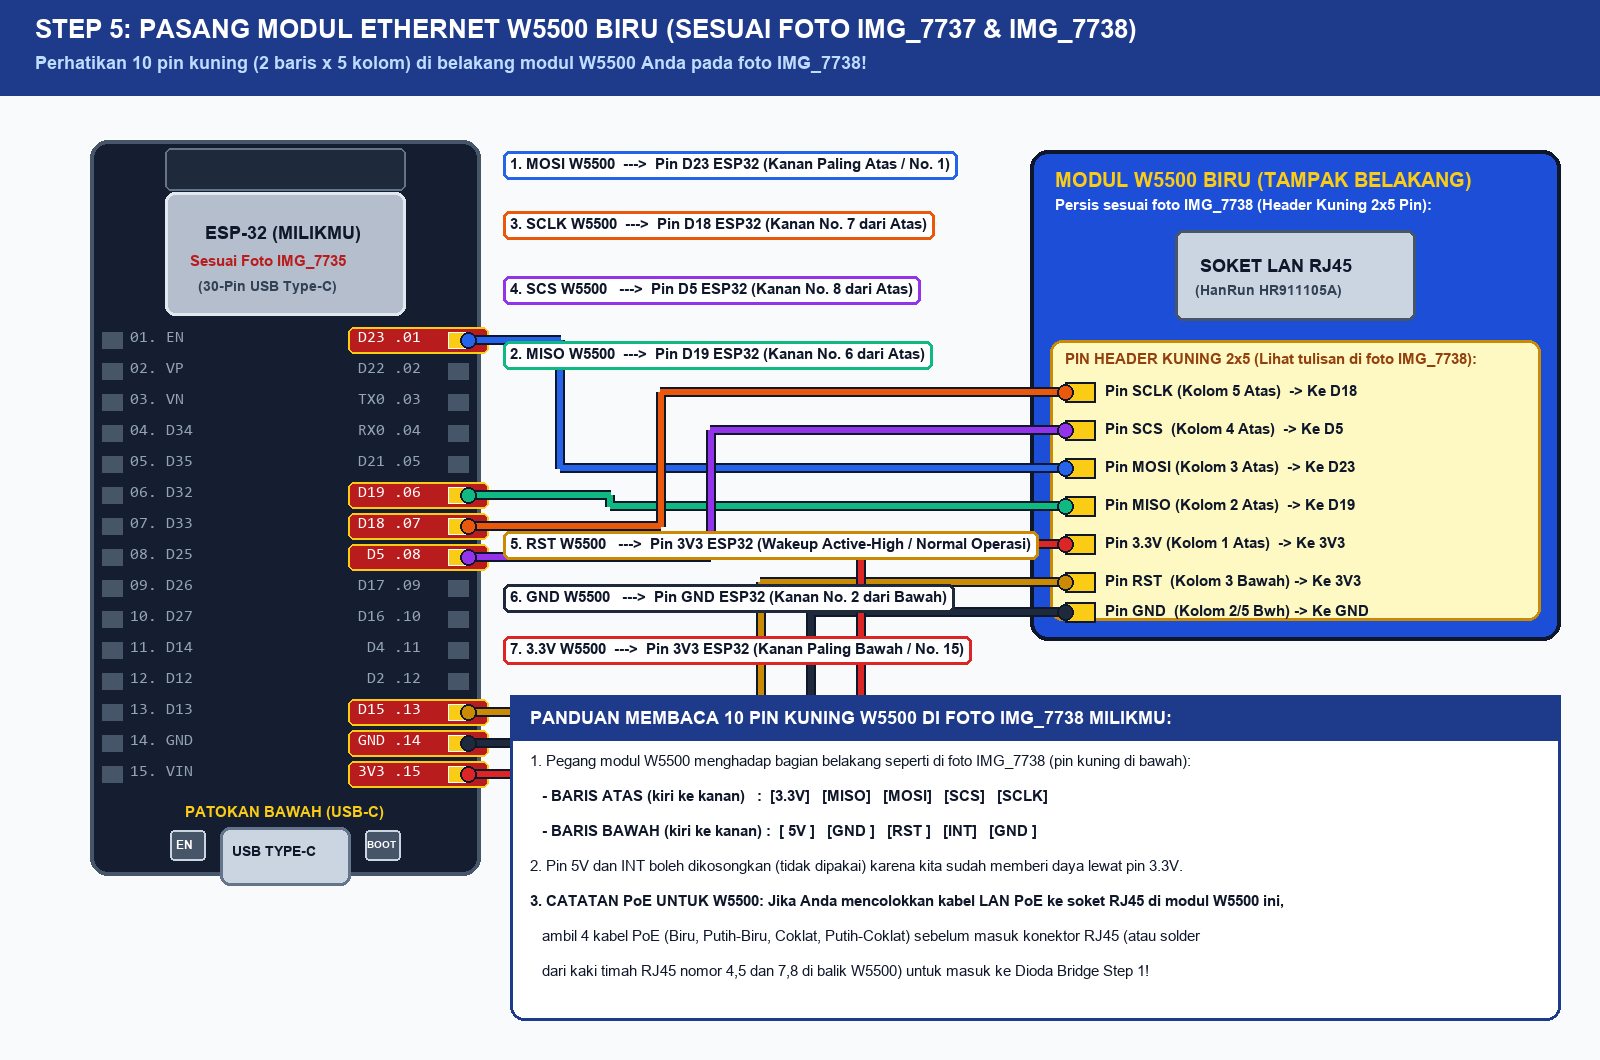
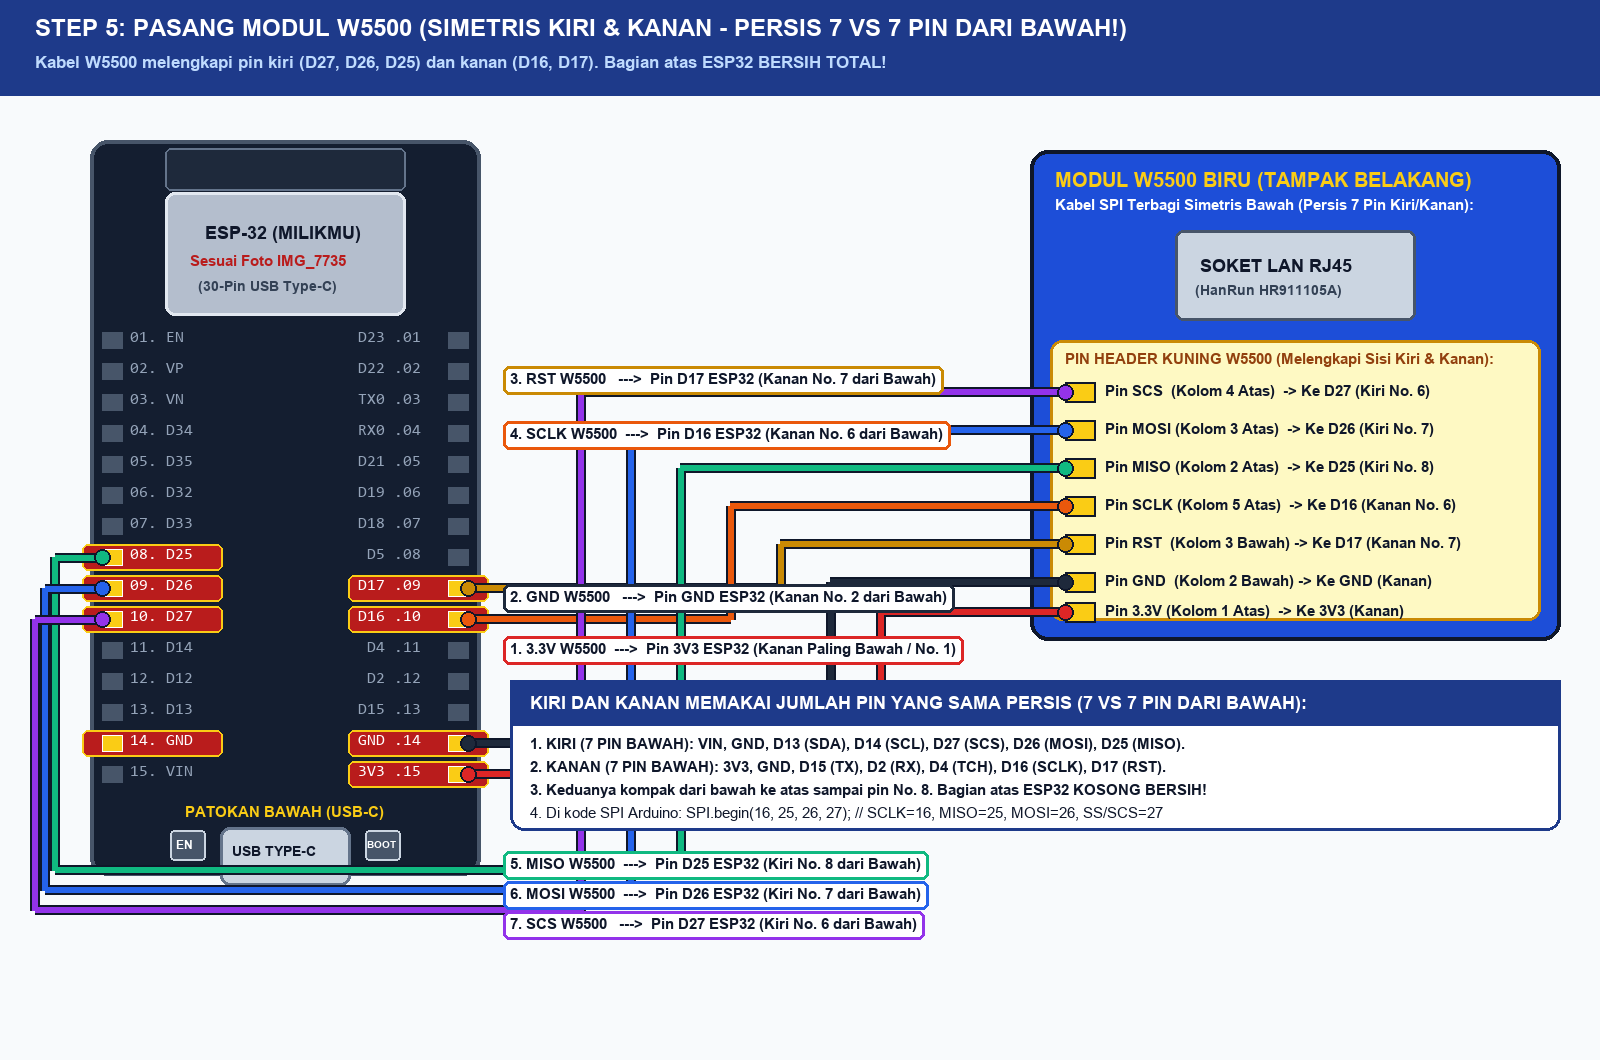
fix: gambar step5_wiring_w5500.png kini benar-benar turun ke pin bawah (persis 7 pin bawah)

diff --git a/render_wiring_steps.py b/render_wiring_steps.py
@@ -543,35 +543,32 @@ def make_step5_w5500():
     lbls = []
 
     d.rectangle([0, 0, W, 95], fill=(30, 58, 138))
-    d.text((35, 14), "STEP 5: PASANG MODUL ETHERNET W5500 BIRU (SESUAI FOTO IMG_7737 & IMG_7738)", fill=(255, 255, 255), font=get_font(26, bold=True))
-    d.text((35, 52), "Perhatikan 10 pin kuning (2 baris x 5 kolom) di belakang modul W5500 Anda pada foto IMG_7738!", fill=(191, 219, 254), font=get_font(18, bold=True))
+    d.text((35, 14), "STEP 5: PASANG MODUL W5500 (SIMETRIS KIRI & KANAN - PERSIS 7 VS 7 PIN DARI BAWAH!)", fill=(255, 255, 255), font=get_font(24, bold=True))
+    d.text((35, 52), "Kabel W5500 melengkapi pin kiri (D27, D26, D25) dan kanan (D16, D17). Bagian atas ESP32 BERSIH TOTAL!", fill=(191, 219, 254), font=get_font(17, bold=True))
 
-    esp_coords = draw_esp32(d, 90, 140, active_left=[], active_right=["D23", "D19", "D18", "D5", "D15", "GND_R", "3V3"])
+    esp_coords = draw_esp32(d, 90, 140, active_left=["D27", "D26", "D25", "GND_L"], active_right=["D16", "D17", "GND_R", "3V3"])
 
     wx, wy = 1030, 150
     ww, wh = 530, 490
     d.rounded_rectangle([wx, wy, wx+ww, wy+wh], radius=18, fill=(29, 78, 216), outline=(15, 23, 42), width=4)
     d.text((wx+25, wy+18), "MODUL W5500 BIRU (TAMPAK BELAKANG)", fill=(250, 204, 21), font=get_font(20, bold=True))
-    d.text((wx+25, wy+46), "Persis sesuai foto IMG_7738 (Header Kuning 2x5 Pin):", fill=(255, 255, 255), font=get_font(15, bold=True))
+    d.text((wx+25, wy+46), "Kabel SPI Terbagi Simetris Bawah (Persis 7 Pin Kiri/Kanan):", fill=(255, 255, 255), font=get_font(15, bold=True))
 
-    # Gambar kotak konektor RJ45 di bagian atas seperti di IMG_7738
     d.rounded_rectangle([wx+145, wy+80, wx+385, wy+170], radius=8, fill=(203, 213, 225), outline=(71, 85, 105), width=3)
     d.text((wx+170, wy+105), "SOKET LAN RJ45", fill=(15, 23, 42), font=get_font(18, bold=True))
     d.text((wx+165, wy+132), "(HanRun HR911105A)", fill=(51, 65, 85), font=get_font(14, bold=True))
 
-    # Gambar Header Kuning 2x5 diputar vertikal supaya mudah ditarik garis ke kiri,
-    # sambil menampilkan posisi Kolom 1-5 Baris Atas & Bawah persis seperti IMG_7738!
     d.rounded_rectangle([wx+20, wy+190, wx+510, wy+470], radius=12, fill=(254, 249, 195), outline=(202, 138, 4), width=3)
-    d.text((wx+35, wy+200), "PIN HEADER KUNING 2x5 (Lihat tulisan di foto IMG_7738):", fill=(146, 64, 14), font=get_font(15, bold=True))
+    d.text((wx+35, wy+200), "PIN HEADER KUNING W5500 (Melengkapi Sisi Kiri & Kanan):", fill=(146, 64, 14), font=get_font(15, bold=True))
 
     w5500_pins = [
-        ("SCLK", "Pin SCLK (Kolom 5 Atas)  -> Ke D18", wy+242, (234, 88, 12)),
-        ("SCS",  "Pin SCS  (Kolom 4 Atas)  -> Ke D5",  wy+280, (147, 51, 234)),
-        ("MOSI", "Pin MOSI (Kolom 3 Atas)  -> Ke D23", wy+318, (37, 99, 235)),
-        ("MISO", "Pin MISO (Kolom 2 Atas)  -> Ke D19", wy+356, (16, 185, 129)),
-        ("3V3",  "Pin 3.3V (Kolom 1 Atas)  -> Ke 3V3", wy+394, (220, 38, 38)),
-        ("RST",  "Pin RST  (Kolom 3 Bawah) -> Ke 3V3", wy+432, (202, 138, 4)),
-        ("GND",  "Pin GND  (Kolom 2/5 Bwh) -> Ke GND", wy+462, (30, 41, 59)),
+        ("SCS",  "Pin SCS  (Kolom 4 Atas)  -> Ke D27 (Kiri No. 6)",  wy+242, (147, 51, 234)),
+        ("MOSI", "Pin MOSI (Kolom 3 Atas)  -> Ke D26 (Kiri No. 7)",  wy+280, (37, 99, 235)),
+        ("MISO", "Pin MISO (Kolom 2 Atas)  -> Ke D25 (Kiri No. 8)",  wy+318, (16, 185, 129)),
+        ("SCLK", "Pin SCLK (Kolom 5 Atas)  -> Ke D16 (Kanan No. 6)", wy+356, (234, 88, 12)),
+        ("RST",  "Pin RST  (Kolom 3 Bawah) -> Ke D17 (Kanan No. 7)", wy+394, (202, 138, 4)),
+        ("GND",  "Pin GND  (Kolom 2 Bawah) -> Ke GND (Kanan)",       wy+432, (30, 41, 59)),
+        ("3V3",  "Pin 3.3V (Kolom 1 Atas)  -> Ke 3V3 (Kanan)",       wy+462, (220, 38, 38)),
     ]
     w_pts = {}
     for pcode, pdesc, py, col in w5500_pins:
@@ -579,86 +576,84 @@ def make_step5_w5500():
         d.text((wx+75, py-10), pdesc, fill=(15, 23, 42), font=get_font(15, bold=True))
         w_pts[pcode] = (wx+35, py)
 
-    # Semua 7 pin W5500 masuk ke deretan KANAN ESP32! Sangat rapi!
-    # 1. MOSI -> D23 (Right #1, top)
-    draw_wire(d, [
-        w_pts["MOSI"],
-        (560, w_pts["MOSI"][1]),
-        (560, esp_coords["D23"][1]),
-        esp_coords["D23"]
-    ], (37, 99, 235), width=6, label="1. MOSI W5500  --->  Pin D23 ESP32 (Kanan Paling Atas / No. 1)", label_pos=(510, 155), labels_queue=lbls)
-
-    # 2. MISO -> D19 (Right #6)
-    draw_wire(d, [
-        w_pts["MISO"],
-        (610, w_pts["MISO"][1]),
-        (610, esp_coords["D19"][1]),
-        esp_coords["D19"]
-    ], (16, 185, 129), width=6, label="2. MISO W5500  --->  Pin D19 ESP32 (Kanan No. 6 dari Atas)", label_pos=(510, 345), labels_queue=lbls)
-
-    # 3. SCLK -> D18 (Right #7)
-    draw_wire(d, [
-        w_pts["SCLK"],
-        (660, w_pts["SCLK"][1]),
-        (660, esp_coords["D18"][1]),
-        esp_coords["D18"]
-    ], (234, 88, 12), width=6, label="3. SCLK W5500  --->  Pin D18 ESP32 (Kanan No. 7 dari Atas)", label_pos=(510, 215), labels_queue=lbls)
-
-    # 4. SCS -> D5 (Right #8)
-    draw_wire(d, [
-        w_pts["SCS"],
-        (710, w_pts["SCS"][1]),
-        (710, esp_coords["D5"][1]),
-        esp_coords["D5"]
-    ], (147, 51, 234), width=6, label="4. SCS W5500   --->  Pin D5 ESP32 (Kanan No. 8 dari Atas)", label_pos=(510, 280), labels_queue=lbls)
-
-    # 5. RST -> D15 (Right #13)
-    draw_wire(d, [
-        w_pts["RST"],
-        (760, w_pts["RST"][1]),
-        (760, esp_coords["D15"][1]),
-        esp_coords["D15"]
-    ], (202, 138, 4), width=6, label="5. RST W5500   --->  Pin 3V3 ESP32 (Wakeup Active-High / Normal Operasi)", label_pos=(510, 535), labels_queue=lbls)
-
-    # 6. GND -> GND_R (Right #14)
-    draw_wire(d, [
-        w_pts["GND"],
-        (810, w_pts["GND"][1]),
-        (810, esp_coords["GND_R"][1]),
-        esp_coords["GND_R"]
-    ], (30, 41, 59), width=6, label="6. GND W5500   --->  Pin GND ESP32 (Kanan No. 2 dari Bawah)", label_pos=(510, 588), labels_queue=lbls)
-
-    # 7. 3.3V -> 3V3 (Right #15)
+    # 1. 3.3V -> 3V3 (Kanan Paling Bawah)
     draw_wire(d, [
         w_pts["3V3"],
-        (860, w_pts["3V3"][1]),
-        (860, esp_coords["3V3"][1]),
+        (880, w_pts["3V3"][1]),
+        (880, esp_coords["3V3"][1]),
         esp_coords["3V3"]
-    ], (220, 38, 38), width=6, label="7. 3.3V W5500  --->  Pin 3V3 ESP32 (Kanan Paling Bawah / No. 15)", label_pos=(510, 640), labels_queue=lbls)
+    ], (220, 38, 38), width=6, label="1. 3.3V W5500  --->  Pin 3V3 ESP32 (Kanan Paling Bawah / No. 1)", label_pos=(510, 640), labels_queue=lbls)
+
+    # 2. GND -> GND_R (Kanan No. 2 dari Bawah)
+    draw_wire(d, [
+        w_pts["GND"],
+        (830, w_pts["GND"][1]),
+        (830, esp_coords["GND_R"][1]),
+        esp_coords["GND_R"]
+    ], (30, 41, 59), width=6, label="2. GND W5500   --->  Pin GND ESP32 (Kanan No. 2 dari Bawah)", label_pos=(510, 588), labels_queue=lbls)
+
+    # 3. RST -> D17 (Kanan No. 7 dari Bawah)
+    draw_wire(d, [
+        w_pts["RST"],
+        (780, w_pts["RST"][1]),
+        (780, esp_coords["D17"][1]),
+        esp_coords["D17"]
+    ], (202, 138, 4), width=6, label="3. RST W5500   --->  Pin D17 ESP32 (Kanan No. 7 dari Bawah)", label_pos=(510, 370), labels_queue=lbls)
+
+    # 4. SCLK -> D16 (Kanan No. 6 dari Bawah)
+    draw_wire(d, [
+        w_pts["SCLK"],
+        (730, w_pts["SCLK"][1]),
+        (730, esp_coords["D16"][1]),
+        esp_coords["D16"]
+    ], (234, 88, 12), width=6, label="4. SCLK W5500  --->  Pin D16 ESP32 (Kanan No. 6 dari Bawah)", label_pos=(510, 425), labels_queue=lbls)
+
+    # 5. MISO -> D25 (Kiri No. 8 dari Bawah, lewat bawah kabel)
+    draw_wire(d, [
+        w_pts["MISO"],
+        (680, w_pts["MISO"][1]),
+        (680, 870),
+        (55, 870),
+        (55, esp_coords["D25"][1]),
+        esp_coords["D25"]
+    ], (16, 185, 129), width=6, label="5. MISO W5500  --->  Pin D25 ESP32 (Kiri No. 8 dari Bawah)", label_pos=(510, 855), labels_queue=lbls)
+
+    # 6. MOSI -> D26 (Kiri No. 7 dari Bawah)
+    draw_wire(d, [
+        w_pts["MOSI"],
+        (630, w_pts["MOSI"][1]),
+        (630, 890),
+        (45, 890),
+        (45, esp_coords["D26"][1]),
+        esp_coords["D26"]
+    ], (37, 99, 235), width=6, label="6. MOSI W5500  --->  Pin D26 ESP32 (Kiri No. 7 dari Bawah)", label_pos=(510, 885), labels_queue=lbls)
+
+    # 7. SCS -> D27 (Kiri No. 6 dari Bawah)
+    draw_wire(d, [
+        w_pts["SCS"],
+        (580, w_pts["SCS"][1]),
+        (580, 910),
+        (35, 910),
+        (35, esp_coords["D27"][1]),
+        esp_coords["D27"]
+    ], (147, 51, 234), width=6, label="7. SCS W5500   --->  Pin D27 ESP32 (Kiri No. 6 dari Bawah)", label_pos=(510, 915), labels_queue=lbls)
 
     flush_labels(d, lbls)
 
-    d.rounded_rectangle([510, 695, 1560, 1020], radius=14, fill=(255, 255, 255), outline=(30, 58, 138), width=3)
-    d.rectangle([510, 695, 1560, 740], fill=(30, 58, 138))
-    d.text((530, 707), "PANDUAN MEMBACA 10 PIN KUNING W5500 DI FOTO IMG_7738 MILIKMU:", fill=(255, 255, 255), font=get_font(18, bold=True))
+    d.rounded_rectangle([510, 680, 1560, 830], radius=14, fill=(255, 255, 255), outline=(30, 58, 138), width=3)
+    d.rectangle([510, 680, 1560, 725], fill=(30, 58, 138))
+    d.text((530, 692), "KIRI DAN KANAN MEMAKAI JUMLAH PIN YANG SAMA PERSIS (7 VS 7 PIN DARI BAWAH):", fill=(255, 255, 255), font=get_font(18, bold=True))
     w_notes = [
-        "1. Pegang modul W5500 menghadap bagian belakang seperti di foto IMG_7738 (pin kuning di bawah):",
-        "   - BARIS ATAS (kiri ke kanan)   :  [3.3V]   [MISO]   [MOSI]   [SCS]   [SCLK]",
-        "   - BARIS BAWAH (kiri ke kanan) :  [ 5V ]   [GND ]   [RST ]   [INT]   [GND ]",
-        "2. Pin 5V dan INT boleh dikosongkan (tidak dipakai) karena kita sudah memberi daya lewat pin 3.3V.",
-        "3. CATATAN PoE UNTUK W5500: Jika Anda mencolokkan kabel LAN PoE ke soket RJ45 di modul W5500 ini,",
-        "   ambil 4 kabel PoE (Biru, Putih-Biru, Coklat, Putih-Coklat) sebelum masuk konektor RJ45 (atau solder",
-        "   dari kaki timah RJ45 nomor 4,5 dan 7,8 di balik W5500) untuk masuk ke Dioda Bridge Step 1!"
+        "1. KIRI (7 PIN BAWAH): VIN, GND, D13 (SDA), D14 (SCL), D27 (SCS), D26 (MOSI), D25 (MISO).",
+        "2. KANAN (7 PIN BAWAH): 3V3, GND, D15 (TX), D2 (RX), D4 (TCH), D16 (SCLK), D17 (RST).",
+        "3. Keduanya kompak dari bawah ke atas sampai pin No. 8. Bagian atas ESP32 KOSONG BERSIH!",
+        "4. Di kode SPI Arduino: SPI.begin(16, 25, 26, 27); // SCLK=16, MISO=25, MOSI=26, SS/SCS=27"
     ]
     for i, wn in enumerate(w_notes):
-        d.text((530, 752 + i*35), wn, fill=(15, 23, 42), font=get_font(15, bold=(i in [1,2,4])))
+        d.text((530, 735 + i*23), wn, fill=(15, 23, 42), font=get_font(15, bold=(i in [0,1,2])))
 
     save_both(img, "step5_wiring_w5500.png")
 
-
-# ==============================================================================
-# GAMBAR 6: STEP 6 (TERAKHIR) - SAMBUNGAN DAYA 5.00V XL7015 KE PIN VIN & GND ESP32
-# ==============================================================================
 def make_step6_power():
     W, H = 1600, 980
     img = Image.new("RGB", (W, H), (248, 250, 252))
